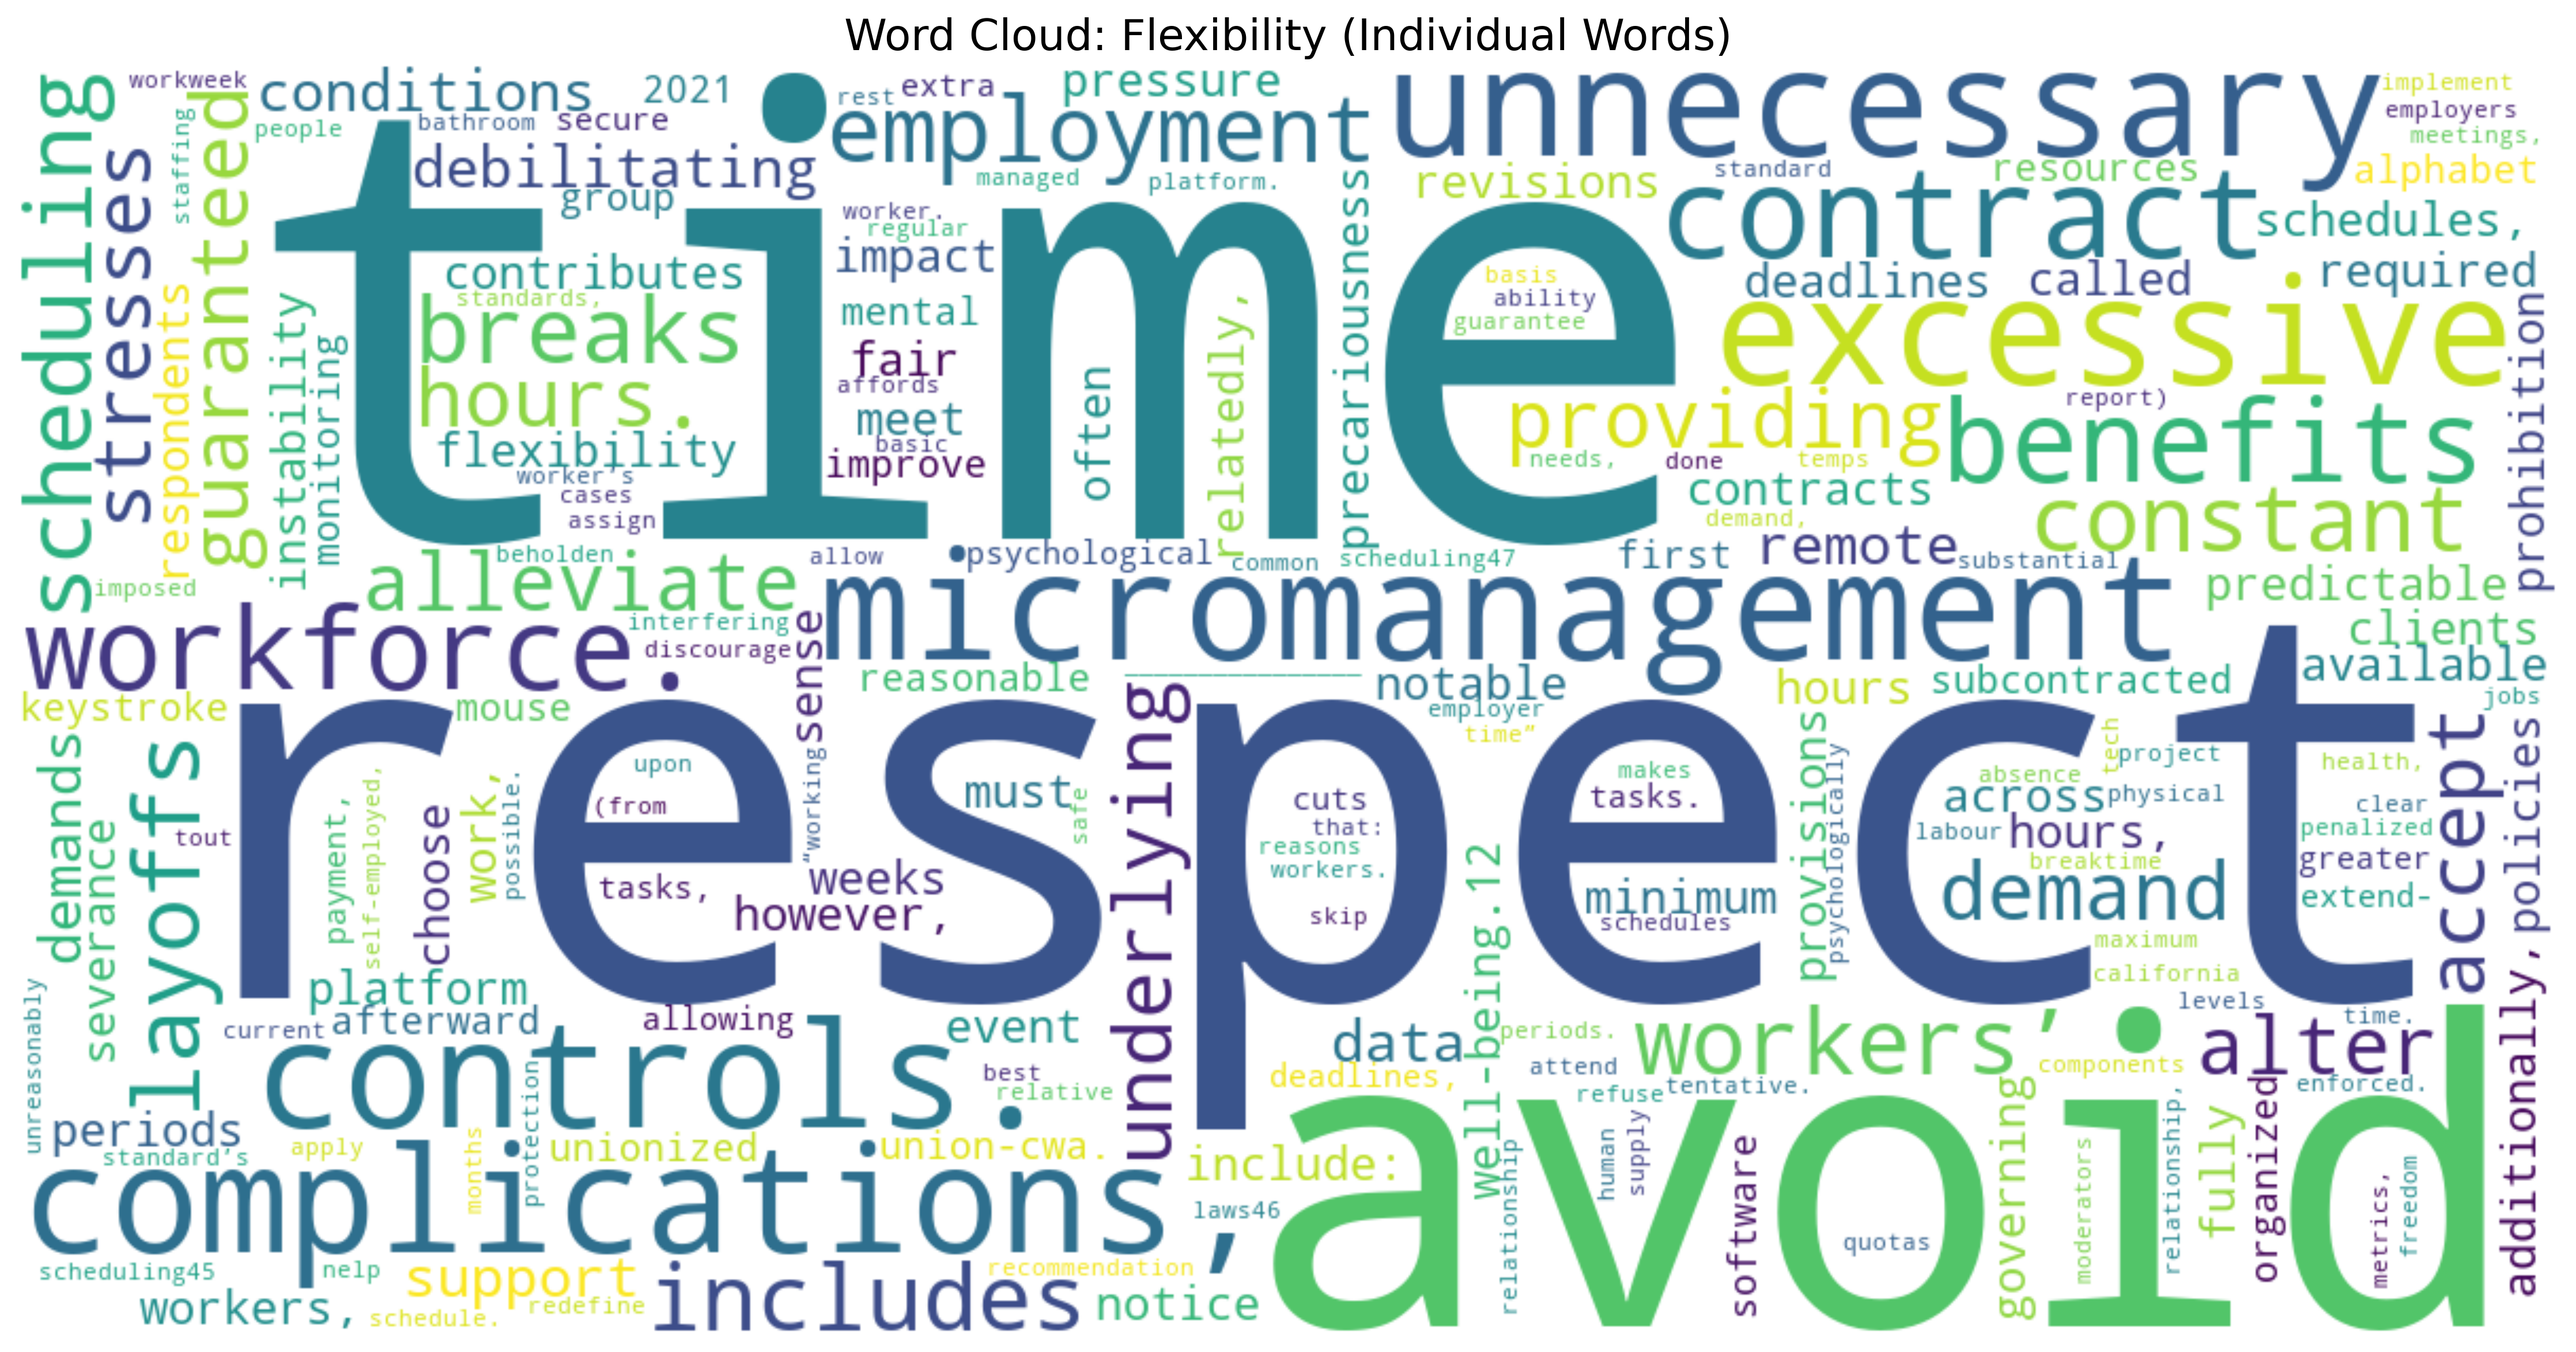
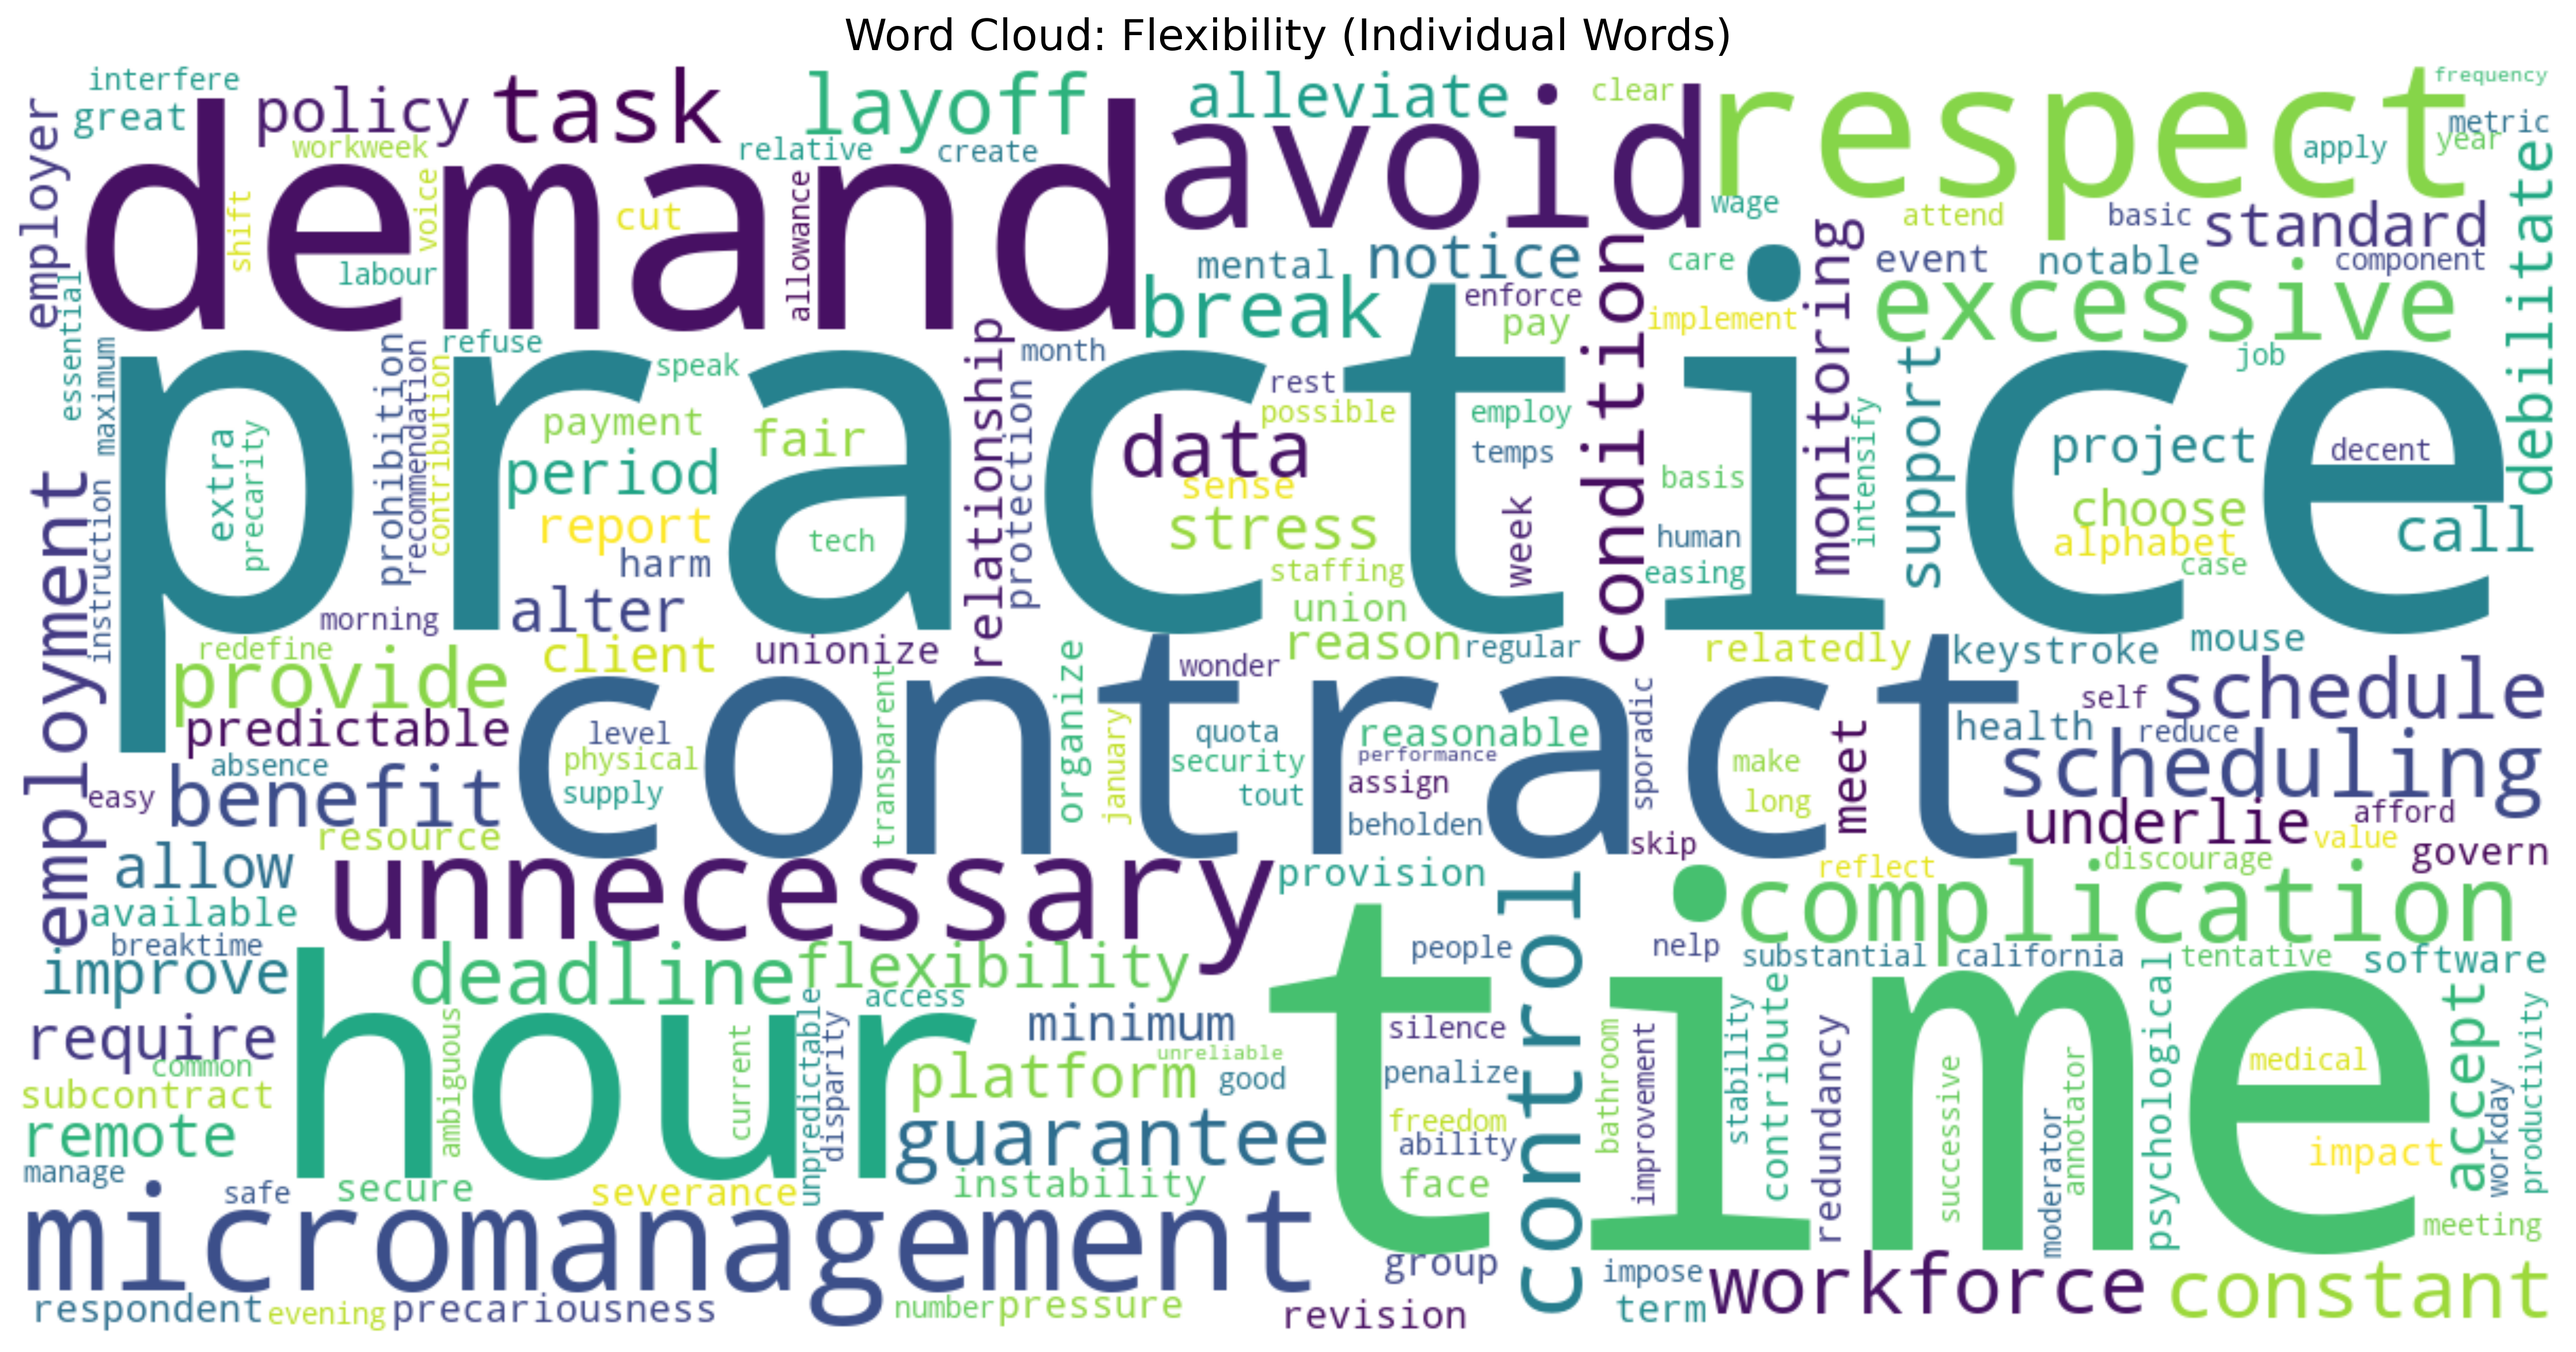
switch word cloud generation from nltk to spacy

diff --git a/analysis.py b/analysis.py
@@ -526,10 +526,86 @@ plt.savefig('./plots/avg_mentions_per_doc_distribution.png', dpi=300)
 plt.show()
 
 
+##### 6. Thematic analysis of top and bottom most mentioned parameters (and entire corpus) #####
+import spacy # Use spacy instead of nltk; tested this out and spacy results in better word clouds, especially for phrases
+nlp = spacy.load("en_core_web_sm")
 
-##### 6. Thematic analysis of top and bottom most mentioned parameters #####
+# Process text in batches for efficiency (spaCy can be slow on large texts)
+all_sentences = melted['sentence'].astype(str).tolist()
+docs = list(nlp.pipe(all_sentences, batch_size=50))
 
-# Focus on top three parameters for word cloud/theme analysis
+# Individual words
+# Use spaCy's lemmatization and POS filtering instead of raw splitting
+filtered_words_all = [
+    token.lemma_.lower() for doc in docs
+    for token in doc
+    if token.is_alpha
+    and not token.is_stop
+    and token.lemma_.lower() not in custom_stopwords
+    and len(token.text) > 3
+    and token.pos_ in {'NOUN', 'VERB', 'ADJ', 'PROPN'}
+]
+word_freq_all = Counter(filtered_words_all)
+
+print(f"\n=== Top 20 Individual Words: Full Corpus ===")
+for word, count in word_freq_all.most_common(20):
+    print(f"{word}: {count}")
+
+wordcloud = WordCloud(
+    width=1200,
+    height=600,
+    background_color='white',
+    colormap='viridis'
+).generate_from_frequencies(word_freq_all)
+
+plt.figure(figsize=(15, 8))
+plt.imshow(wordcloud, interpolation='bilinear')
+plt.axis('off')
+plt.title('Word Cloud: Full Corpus (Individual Words)', fontsize=18)
+plt.tight_layout()
+plt.savefig('./plots/wordcloud_words_fullcorpus.png', bbox_inches='tight', dpi=300)
+plt.show()
+
+# Two-Word Noun Chunks (Phrases)
+# Extract noun chunks of exactly 2 meaningful words
+bigram_phrases_all = []
+
+for doc in docs:
+    for chunk in doc.noun_chunks:
+        # Lemmatize and filter tokens within the chunk
+        chunk_tokens = [
+            token.lemma_.lower() for token in chunk
+            if token.is_alpha
+            and not token.is_stop
+            and token.lemma_.lower() not in custom_stopwords
+            and len(token.text) > 2
+        ]
+        # Keep only 2-word phrases
+        if len(chunk_tokens) == 2:
+            bigram_phrases_all.append(' '.join(chunk_tokens))
+
+bigram_freq_all = Counter(bigram_phrases_all)
+
+print(f"\n=== Top 20 Two-Word Phrases: Full Corpus ===")
+for phrase, count in bigram_freq_all.most_common(20):
+    print(f"{phrase}: {count}")
+
+wordcloud = WordCloud(
+    width=1200,
+    height=600,
+    background_color='white',
+    colormap='viridis'
+).generate_from_frequencies(dict(bigram_freq_all.most_common(50)))
+
+plt.figure(figsize=(15, 8))
+plt.imshow(wordcloud, interpolation='bilinear')
+plt.axis('off')
+plt.title('Key Themes: Full Corpus (Two-Word Phrases)', fontsize=18)
+plt.tight_layout()
+plt.savefig('./plots/wordcloud_phrases_fullcorpus.png', bbox_inches='tight', dpi=300)
+plt.show()
+
+# Make word clouds for top 4 paramaters
 params = {
     'Freedom of Association': melted[melted['parameter'] == 'Freedom of association and fair representation'],
     'Health and Safety': melted[melted['parameter'] == 'Health and safety risks'],
@@ -537,40 +613,41 @@ params = {
     'Flexibility': melted[melted['parameter'] == 'Right to set working hours/schedule'],
 }
 
-# Create combined stopwords set, plus add custom stopwords
+# Custom stopwords to remove common words that are not meaningful for our analysis (e.g. "worker", "company", "need", "practices", etc.)
 custom_stopwords = {
     'worker', 'workers', "workers'",'work', 'working', 'company', 'companies', 'need',
     'practices','regardless','except','following','ensure','prevent','recommend','recommends','ensuring',
     'include','including','conducting','means','things'
 }
 
-stop_words = set(STOPWORDS) | set(nltk_stopwords.words('english')) | custom_stopwords
-
 for param_name, param_data in params.items():
     print(f"\n{'='*60}")
     print(f"Processing: {param_name}")
     print(f"Found {len(param_data)} sentences")
     print(f"{'='*60}")
-    
-    # Combine all sentences into single text
-    text = ' '.join(param_data['sentence'].astype(str))
-    text_lower = text.lower()
 
-    # Individual words
-    print(f"\n=== Top 20 Individual Words: {param_name} ===")
+    # Process sentences through spaCy
+    sentences = param_data['sentence'].astype(str).tolist()
+    docs = list(nlp.pipe(sentences, batch_size=50))
 
-    # Filter words
-    filtered_words = [word for word in text_lower.split() 
-                      if word not in stop_words and len(word) > 3]
+    # Individual Words
+    filtered_words = [
+        token.lemma_.lower() for doc in docs
+        for token in doc
+        if token.is_alpha
+        and not token.is_stop
+        and token.lemma_.lower() not in custom_stopwords
+        and len(token.text) > 3
+        and token.pos_ in {'NOUN', 'VERB', 'ADJ', 'PROPN'}
+    ]
     word_freq = Counter(filtered_words)
 
-    # Print top words
+    print(f"\n=== Top 20 Individual Words: {param_name} ===")
     for word, count in word_freq.most_common(20):
         print(f"{word}: {count}")
 
-    # Create word cloud
     wordcloud = WordCloud(
-        width=1200, 
+        width=1200,
         height=600,
         background_color='white',
         colormap='viridis'
@@ -581,31 +658,34 @@ for param_name, param_data in params.items():
     plt.axis('off')
     plt.title(f'Word Cloud: {param_name} (Individual Words)', fontsize=18)
     plt.tight_layout()
-    
-    # Create clean filename
+
     filename = param_name.lower().replace(' ', '_').replace('&', 'and')
     plt.savefig(f'./plots/{filename}_words_wordcloud.png', bbox_inches='tight', dpi=300)
     plt.show()
 
-    # Phrases
-    print(f"\n=== Top 20 Two-Word Phrases: {param_name} ===")
+    # Two-Word Noun Chunks (Phrases)
+    bigram_phrases = []
 
-    # Tokenize and filter
-    tokens = nltk.word_tokenize(text_lower)
-    filtered_tokens = [w for w in tokens if w.isalpha() and w not in stop_words and len(w) > 2]
+    for doc in docs:
+        for chunk in doc.noun_chunks:
+            chunk_tokens = [
+                token.lemma_.lower() for token in chunk
+                if token.is_alpha
+                and not token.is_stop
+                and token.lemma_.lower() not in custom_stopwords
+                and len(token.text) > 2
+            ]
+            if len(chunk_tokens) == 2:
+                bigram_phrases.append(' '.join(chunk_tokens))
 
-    # Create bigrams
-    bigrams = list(ngrams(filtered_tokens, 2))
-    bigram_phrases = [' '.join(gram) for gram in bigrams]
     bigram_freq = Counter(bigram_phrases)
 
-    # Print top phrases
+    print(f"\n=== Top 20 Two-Word Phrases: {param_name} ===")
     for phrase, count in bigram_freq.most_common(20):
         print(f"{phrase}: {count}")
 
-    # Create word cloud
     wordcloud = WordCloud(
-        width=1200, 
+        width=1200,
         height=600,
         background_color='white',
         colormap='plasma'
@@ -622,69 +702,6 @@ for param_name, param_data in params.items():
 print("\n" + "="*60)
 print("All word clouds generated successfully!")
 print("="*60)
-
-# Creat word cloud for all parameters combined
-all_text = ' '.join(melted['sentence'].astype(str)).lower()
-filtered_words_all = [word for word in all_text.split()
-                        if word not in stop_words and len(word) > 3]
-word_freq_all = Counter(filtered_words_all)
-
-# Individual words
-print(f"\n=== Top 20 Individual Words: Full Corpus ===")
-
-# Print top words
-for word, count in word_freq_all.most_common(20):
-    print(f"{word}: {count}")
-
-# Create word cloud
-wordcloud = WordCloud(
-        width=1200, 
-        height=600,
-        background_color='white',
-        colormap='viridis'
-    ).generate_from_frequencies(word_freq_all)
-
-plt.figure(figsize=(15, 8))
-plt.imshow(wordcloud, interpolation='bilinear')
-plt.axis('off')
-plt.title(f'Word Cloud: Full Corpus (Individual Words)', fontsize=18)
-plt.tight_layout()
-plt.savefig(f'./plots/wordcloud_words_fullcorpus.png', bbox_inches='tight', dpi=300)
-plt.show()
-
-# Phrases
-print(f"\n=== Top 20 Two-Word Phrases: Full Corpus ===")
-
-# Tokenize and filter
-tokens_all = nltk.word_tokenize(all_text)
-filtered_tokens_all = [w for w in tokens_all if w.isalpha() and w not in stop_words and len(w) > 2]
-
-# Create bigrams
-bigrams_all = list(ngrams(filtered_tokens_all, 2))
-bigram_phrases_all = [' '.join(gram) for gram in bigrams_all]
-bigram_freq_all = Counter(bigram_phrases_all)
-
-# Print top phrases
-for phrase, count in bigram_freq_all.most_common(20):
-    print(f"{phrase}: {count}")
-
-# Create word cloud
-wordcloud = WordCloud(
-        width=1200, 
-        height=600,
-        background_color='white',
-        colormap='viridis'
-).generate_from_frequencies(dict(bigram_freq_all.most_common(50)))
-
-plt.figure(figsize=(15, 8))
-plt.imshow(wordcloud, interpolation='bilinear')
-plt.axis('off')
-plt.title(f'Key Themes: Full Corpus (Two-Word Phrases)', fontsize=18)
-plt.tight_layout()
-plt.savefig(f'./plots/wordcloud_phrases_fullcorpus.png', bbox_inches='tight', dpi=300)
-plt.show()
-
-
 
 # Look at sentences for top parameters
 freedom_sentences = params['Freedom of Association'][['policy_title', 'sentence']].drop_duplicates()
